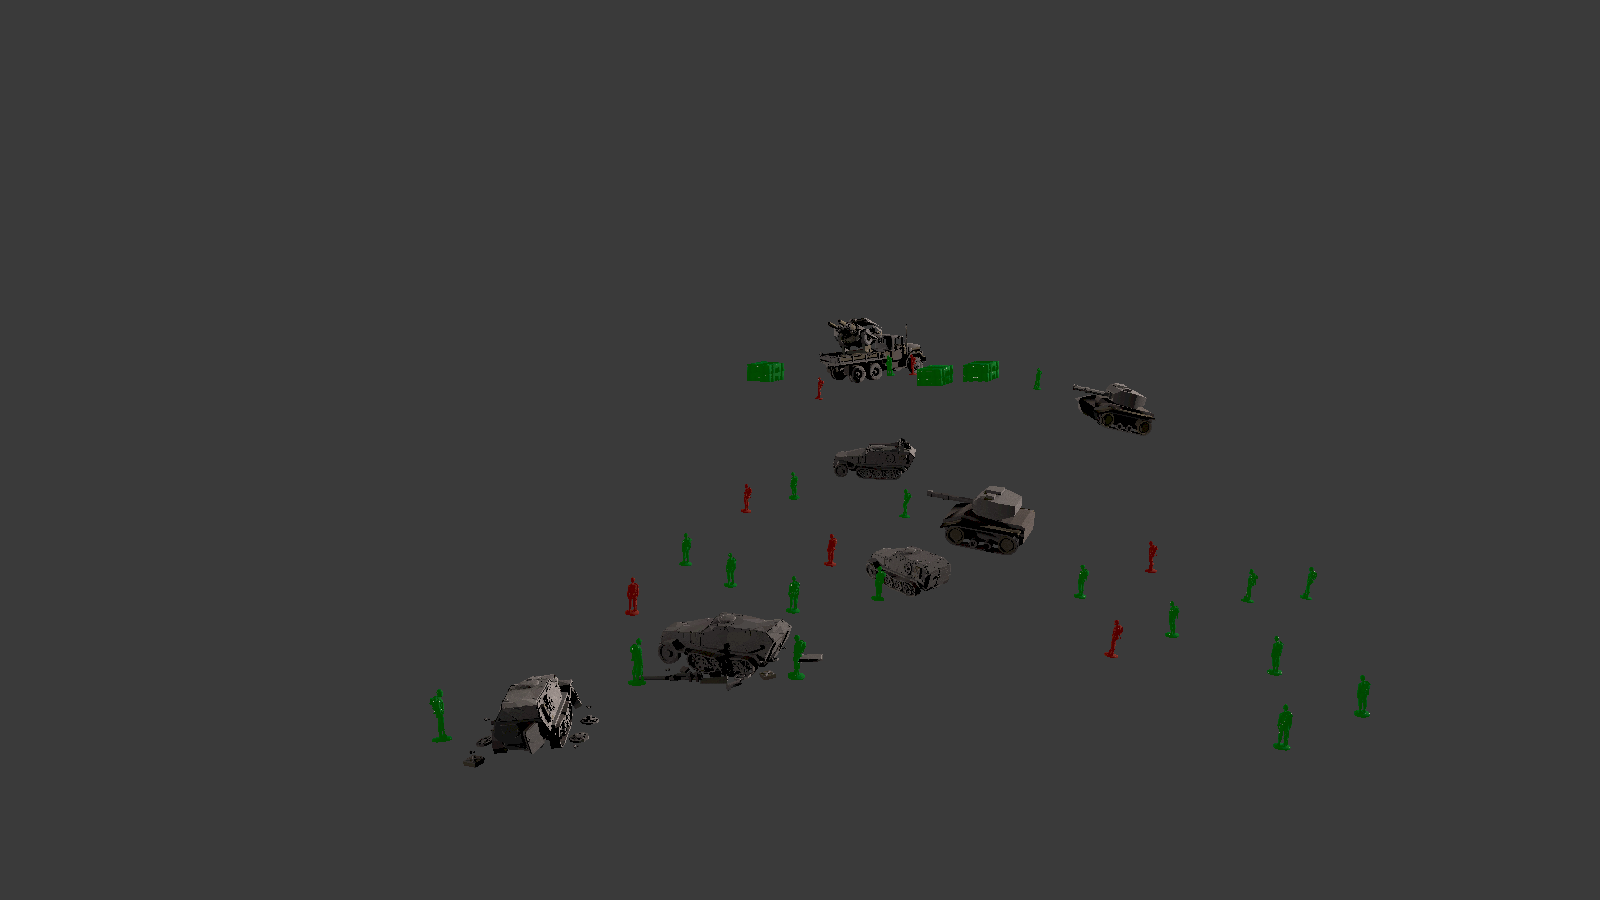
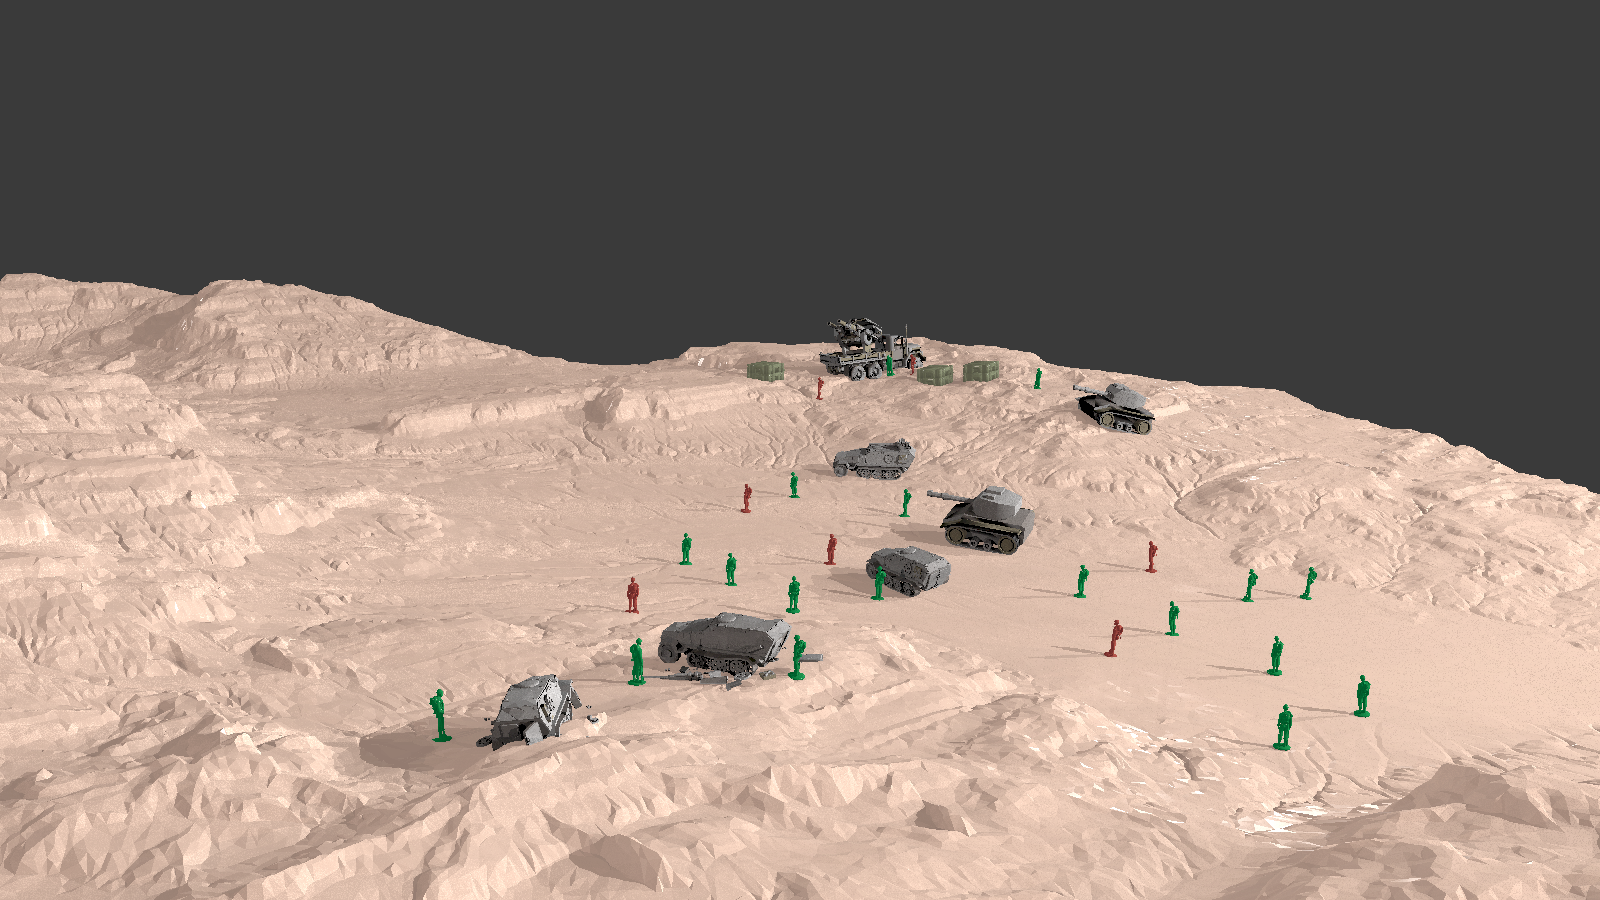
Tweaking my childs play scene

diff --git a/RaytracerV08/src/edu/up/isgc/raytracer/Raytracer.java b/RaytracerV08/src/edu/up/isgc/raytracer/Raytracer.java
@@ -51,7 +51,7 @@ public class Raytracer {
         //String objPath = new File("W:\\-UP_PC-\\4th_SEMESTER\\MMCG_FOURTH_SEMESTER_RLG\\RayTracer_Objs\\Sentence_Splashes.obj").getAbsolutePath();
 
         //Calibration
-        //String objPath = new File("W:\\-UP_PC-\\4th_SEMESTER\\MMCG_FOURTH_SEMESTER_RLG\\RayTracer_Objs\\Calibration\\Calibrateobj.obj").getAbsolutePath();
+        String objPath = new File("W:\\-UP_PC-\\4th_SEMESTER\\MMCG_FOURTH_SEMESTER_RLG\\RayTracer_Objs\\Calibration\\Calibrateobj.obj").getAbsolutePath();
 
         //String path2 = new File("W:\\-UP_PC-\\4th_SEMESTER\\MMCG_FOURTH_SEMESTER_RLG\\Raytracer\\LocalFiles\\ObjFiles\\Ring.obj").getAbsolutePath();
         String path = new File("W:\\-UP_PC-\\4th_SEMESTER\\MMCG_FOURTH_SEMESTER_RLG\\Raytracer\\LocalFiles\\ObjFiles\\Ring.obj").getAbsolutePath();
@@ -134,36 +134,37 @@ public class Raytracer {
         String truckAndTurretMTL = new File("W:\\-UP_PC-\\4th_SEMESTER\\MMCG_FOURTH_SEMESTER_RLG\\RayTracer_Objs\\Aftermath_Scene\\TruckAndTurret.mtl").getAbsolutePath();
         //String armouredTrucksMTL = new File("W:\\-UP_PC-\\4th_SEMESTER\\MMCG_FOURTH_SEMESTER_RLG\\RayTracer_Objs\\Aftermath_Scene\\ArmoredTrucks.mtl").getAbsolutePath();
         BufferedImage armouredTrucksTEX = ImageIO.read(new File("C:\\Users\\rodlo\\Downloads\\Aftermath\\Added\\apcf.obj\\apcf_1.png"));
-        //Obj.RenderObj(scene, objPath, Material.ALBEDO(Color.LIGHT_GRAY));
+        //Obj.RenderObj(scene, objPath, Material.GROUND(new Color(130,97,92)));
         //Obj.RenderObj(scene, objPath, mtlPath);
-        Obj.RenderObj(scene, groundPath, Material.PLASTIC( new Color(192,167,156)));
+        Obj.RenderObj(scene, groundPath, Material.GROUND(new Color(140,106,86)));
         //Obj.RenderObj(scene, groundPath, groundMTL);
 
 
-        Obj.RenderObj(scene, greenSoldiersPath, Material.PLASTIC(new Color(4,48,10)));
+        Obj.RenderObj(scene, greenSoldiersPath, Material.PLASTIC(new Color(3,48,15)));
         Obj.RenderObj(scene, redSoldiersPath, Material.PLASTIC(new Color(63, 15, 11)));
         //Obj.RenderObj(scene, truckAndTurretPath, Material.PLASTIC(new Color(63, 15, 11)));
-        Obj.RenderObj(scene, boxesPath, Material.PLASTIC(new Color(4,48,10)));
+        Obj.RenderObj(scene, boxesPath, Material.PLASTIC(new Color(42,48,30)));
         //Obj.RenderObj(scene, tanksPath, Material.PLASTIC(new Color(90,96,69)));
 
 
         Polygon armouredTrucks = new Polygon(armouredTrucksPath, Color.BLACK, 0.0, 0.0, armouredTrucksTEX);
         Polygon tanks = new Polygon(tanksPath, Color.BLACK, 0.0, 0.0, armouredTrucksTEX);
-        Polygon truckAndTurre = new Polygon(truckAndTurretPath, Color.BLACK, 0.0, 0.0, armouredTrucksTEX);
+        Polygon truckAndTurret = new Polygon(truckAndTurretPath, Color.BLACK, 0.0, 0.0, armouredTrucksTEX);
         scene.addPolygon( armouredTrucks );
         scene.addPolygon( tanks );
-        scene.addPolygon( truckAndTurre );
+        scene.addPolygon( truckAndTurret );
         //Obj.RenderObj(scene, armouredTrucksPath, armouredTrucksMTL, null);
 
 
         //Obj.RenderObj(scene, truckAndTurretPath, truckAndTurretMTL, null);
         //Lights
 
-        Light light01 = new Point(25f, new Color(192,167,156), new Vector3D(-6, 2, -3));
-        Light light02 = new Point(5f, new Color(192,167,156), new Vector3D(6, 0.5, -7));
-        Light light03 = new Point(45f, new Color(192,167,156), new Vector3D(-6.5, 3, 3));
-        Light light04 = new Point(45f, new Color(192,167,156), new Vector3D(8.5, 3, 3));
-        Light light05 = new Point(10f, new Color(192,167,156), new Vector3D(-3, 3, 0));
+        Light light01 = new Point(25f, Color.WHITE, new Vector3D(-6, 2, -3));
+        Light light02 = new Point(5f, new Color(192,167,156), new Vector3D(3, 0.5, -7));
+        Light light03 = new Point(55f, Color.WHITE, new Vector3D(-4, 3, 9));
+        Light light04 = new Point(55f, Color.WHITE, new Vector3D(13, 5, 4));
+        Light light05 = new Point(10f, Color.WHITE, new Vector3D(-3, 1, -5));
+        Light light06 = new Point(5f, new Color(192,167,156), new Vector3D(-3, 0, -7));
 
         //Light light05 = new Spot(5f, new Color(192,167,156), new Vector3D(0, 5, 0), new Vector3D(0, 0, 0), 1f, 1f);
 

diff --git a/RaytracerV08/src/edu/up/isgc/raytracer/lighting/Material.java b/RaytracerV08/src/edu/up/isgc/raytracer/lighting/Material.java
@@ -171,4 +171,7 @@ public class Material {
     public static Material PLASTIC(Color color){
         return new Material(1f, 100f, 0.1f,0.00f,0.00f,0.00f, color);
     }
+    public static Material GROUND(Color color){
+        return new Material(0.0f, 10000f, 0.1f,0.00f,0.00f,0.00f, color);
+    }
 }
